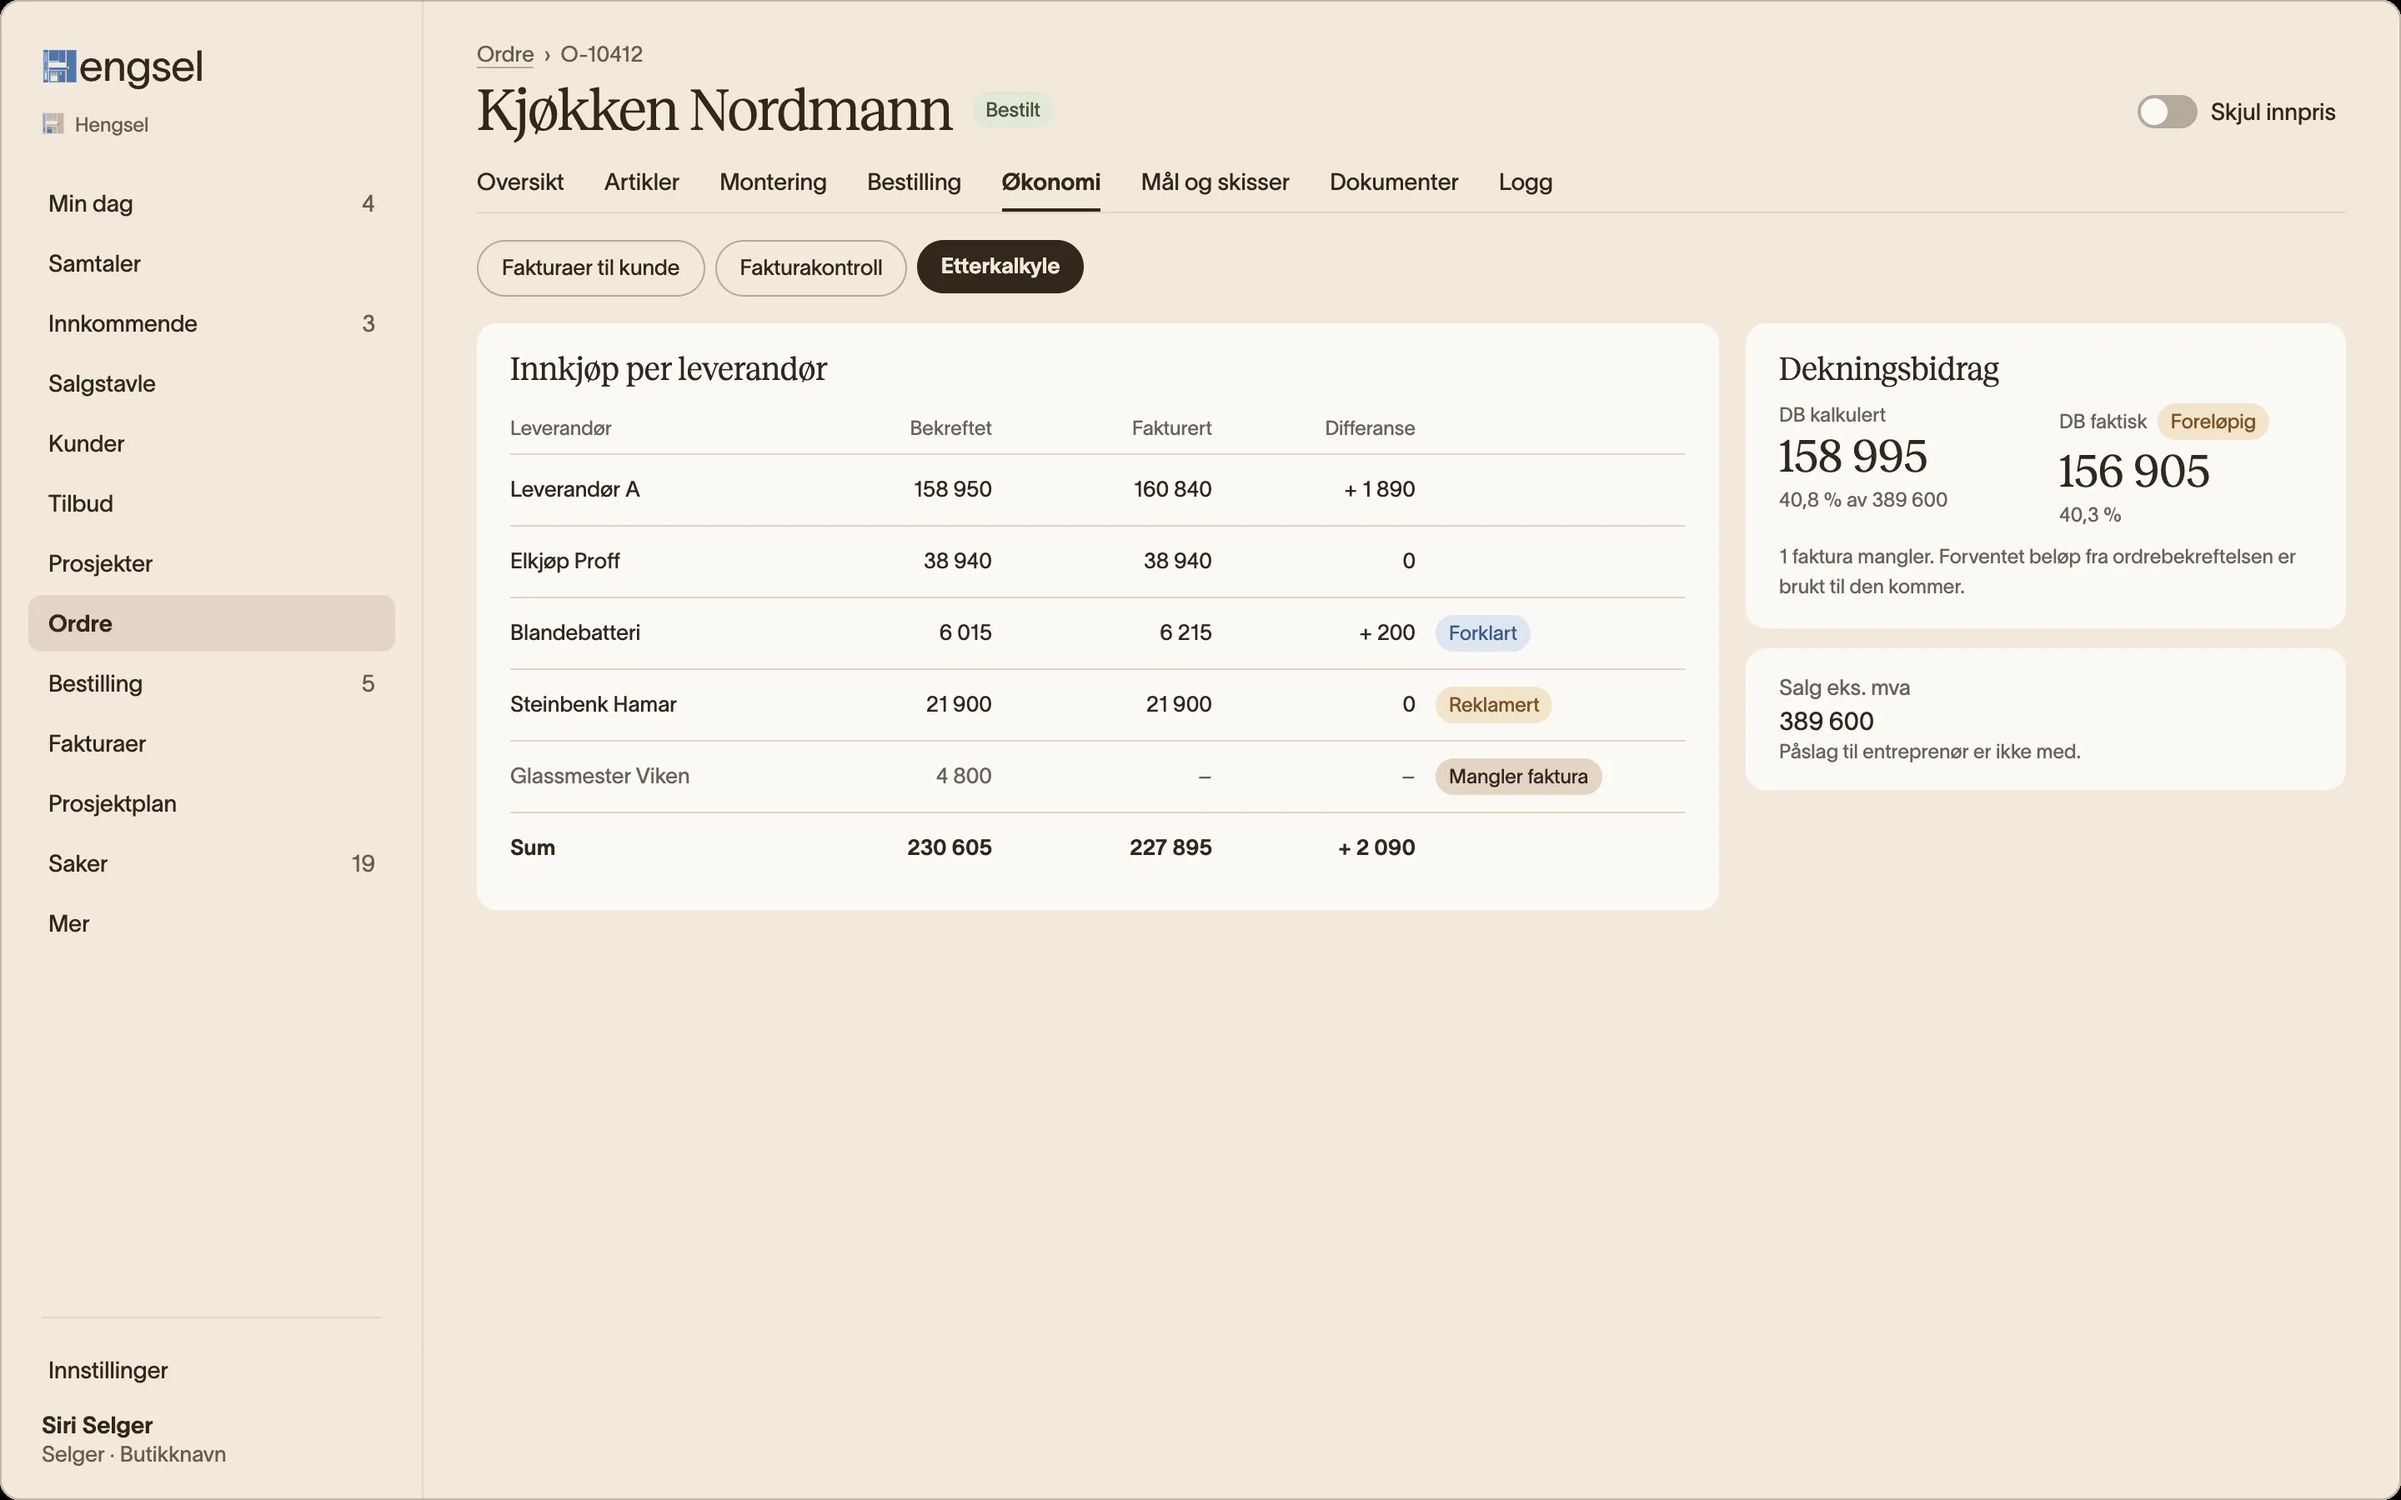
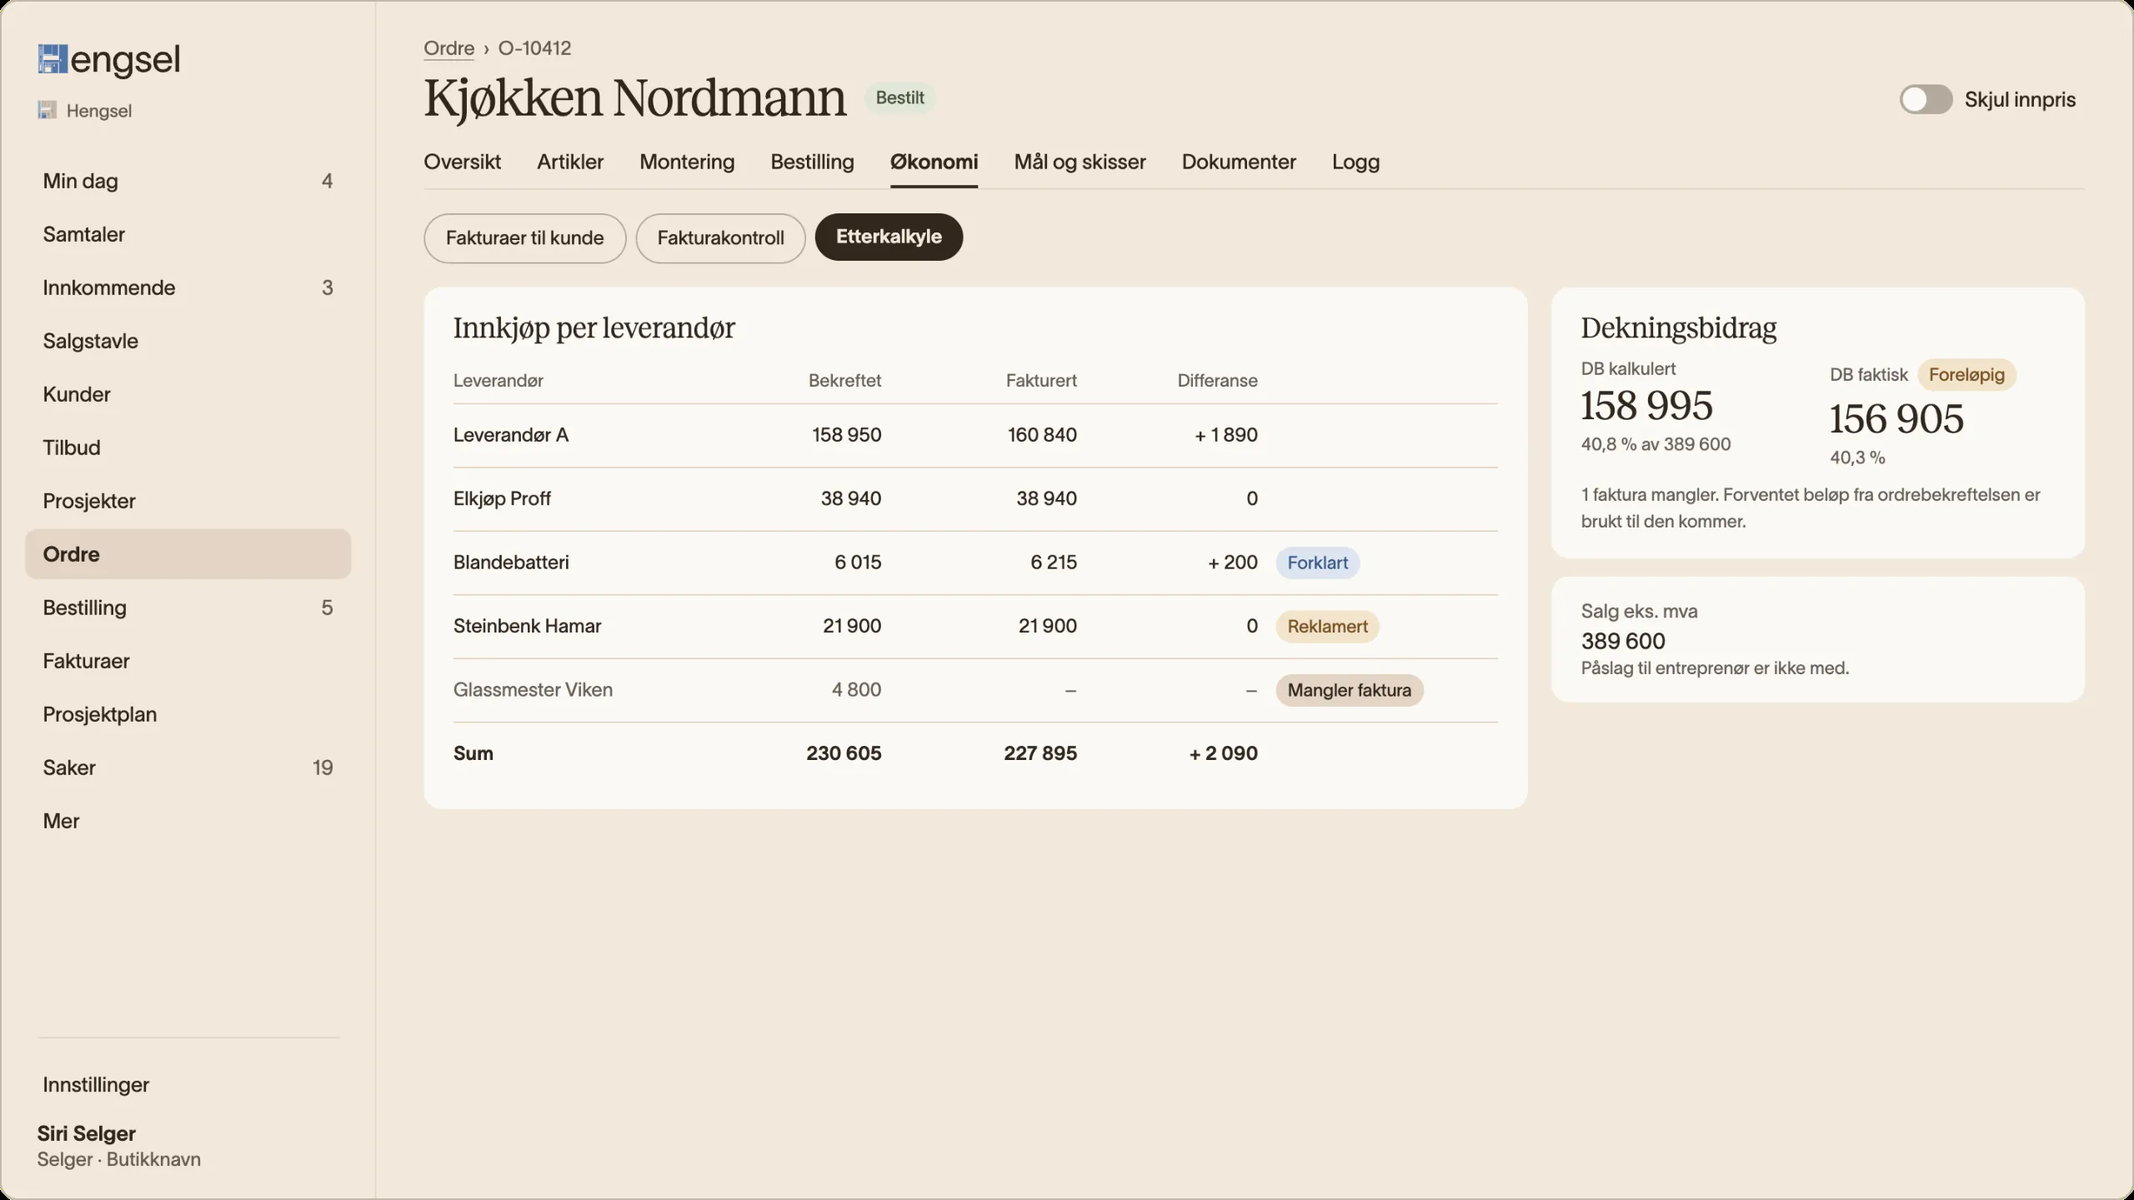
hengsel.no: pakke v6 (Studio Display 16:9, iPad 13", ingen tilpasning av bilder)
- Studio Display-bildene (crm-tilbud, crm-bestilling, crm-resultater, crm-montasje, crm-etterkalkyle) er byttet til v6 display/ (2560 x 1440, 16:9).
  MacBook beholder pc/ (kundeportal-pc fra v4).
- iPad: ute-ipad-bildeverktoy er byttet til v6 ipad13/ (2732 x 2048).
- Enhet.astro: fit-egenskapen og contain-stilen er fjernet. Bildet fyller alltid skjermhullet (cover fra toppen).
  Merk: ipad13 er 4:3, hullet i ipad-liggende er 1,44:1, så de nederste ca. 7 % klippes (verktøylinja i bildeverktøyet).
- scripts/skjermbilder.mjs: helsidebildene laster alle bilder (eager, synkron dekoding, venter på decode) slik at ingen ramme er tom.
- docs/bilder.md oppdatert. Nye helsidebilder av forsiden (1440 og 390, lys og mørk).

Claude-Session: https://claude.ai/code/session_01BRrEhvCqcmW68z484NgJ5s

diff --git a/sites/hengsel/src/scripts/bilder.ts b/sites/hengsel/src/scripts/bilder.ts
@@ -1,14 +1,14 @@
 /**
- * Skjermbildene i public/img: mål i piksler for Enhet.astro (kilde: Apple-pakkene v5, v4 og v3, 11.10.2026, se docs/bilder.md).
+ * Skjermbildene i public/img: mål i piksler for Enhet.astro (kilde: Apple-pakkene v6, v5, v4 og v3, 11.10.2026, se docs/bilder.md).
  * Rammene (ramme-*.webp) er Apples Product Bezels med gjennomsiktig skjermhull; skjermbildene ligger under dem.
  */
 /** Bredde og høyde i piksler, så nettleseren kan sette av plass før bildet er lastet */
 export const MAAL: Record<string, [number, number]> = {
-  "crm-bestilling": [2880, 1800],
-  "crm-etterkalkyle": [2880, 1800],
-  "crm-montasje": [2880, 1800],
-  "crm-resultater": [2880, 1800],
-  "crm-tilbud": [2880, 1800],
+  "crm-bestilling": [2560, 1440],
+  "crm-etterkalkyle": [2560, 1440],
+  "crm-montasje": [2560, 1440],
+  "crm-resultater": [2560, 1440],
+  "crm-tilbud": [2560, 1440],
   "kundeportal-pc": [2880, 1800],
   "portal-fdv": [1206, 2622],
   "portal-levering": [1206, 2622],
@@ -17,7 +17,7 @@ export const MAAL: Record<string, [number, number]> = {
   "ute-avvik": [1206, 2622],
   "ute-ferdig": [1206, 2622],
   "ute-i-dag": [1206, 2622],
-  "ute-ipad-bildeverktoy": [2360, 1640],
+  "ute-ipad-bildeverktoy": [2732, 2048],
   "ute-jobb-under": [1206, 2622],
   "ute-ks": [1206, 2622],
   "ute-laser": [1206, 2622],

diff --git a/docs/bilder.md b/docs/bilder.md
@@ -1,7 +1,9 @@
 # Skjermbilder og Apple-rammer på hengsel.no
 
-Kilde: pakke v5 (`delt/pakke-v5/` på grenen `pakke-v5`) for `crm-montasje`, `ute-i-dag` og `ute-ks`, pakke v4 (`delt/pakke-v4/`, grenen
-`pakke-v4`) for filene den har, og pakke v3 (`delt/pakke-v3/`, grenen `pakke-v3`) for resten. Rammene er Apples Product Bezels med gjennomsiktig skjermhull (`public/img/ramme-*.webp`, uendret fra
+Kilde, i prioritert rekkefølge: pakke v6 (`delt/pakke-v6/`, grenen `pakke-v6`: `display/` til Studio Display og `ipad13/` til iPad),
+pakke v5 (`ute-i-dag`, `ute-ks`), pakke v4 (`crm-tilbud` m.fl., grenen `pakke-v4`) og pakke v3 (`pakke-v3`) for resten. Hver ramme har sitt
+eget bildeformat: Studio Display 16:9 (`display/`, 2560 × 1440), MacBook 16:10 (`pc/`, 2880 × 1800), iPad 13″ 4:3 (`ipad13/`,
+2732 × 2048) og iPhone 18 (`ios/`, 1206 × 2622). Rammene er Apples Product Bezels med gjennomsiktig skjermhull (`public/img/ramme-*.webp`, uendret fra
 v3 til v4); skjermbildet ligger under rammen og klippes til hullet med hjørneradius, `object-fit: cover`, `object-position: top`
 (`src/components/Enhet.astro`). Rammen er ikke beskåret, vippet eller speilvendt, og har ingen skygge. Skjermbildene er WebP
 (kvalitet 80–82) laget av PNG-ene i pakkene, uten endring i oppløsning. Skjermhull (andel av rammen): tabellen i INSTRUKS.md; verdiene
@@ -11,13 +13,13 @@ står i `Enhet.astro`.
 
 | Sted | Ramme | Bilde (pakke) |
 |---|---|---|
-| Hero | Studio Display + iPhone 18 | `crm-tilbud` (v4) + `ute-i-dag` (v5) |
+| Hero | Studio Display + iPhone 18 | `crm-tilbud` (v6) + `ute-i-dag` (v5) |
 | Sju steg 1 Befaring / 5 Montering / 6 Punkter og saker / 7 Ferdig og faktura | iPhone 18 | `ute-laser` (v3) / `ute-ks` (v5) / `ute-punkter` (v3) / `ute-ferdig` (v3) |
-| Sju steg 2 Tilbud / 3 Ordre og bestilling | Studio Display | `crm-tilbud` (v4) / `crm-bestilling` (v3) |
+| Sju steg 2 Tilbud / 3 Ordre og bestilling | Studio Display | `crm-tilbud` / `crm-bestilling` (v6) |
 | Sju steg 4 Levering | iPhone 18 | `portal-levering` (v4, kundeportalen) |
 | Hengsel Ute, åtte grep | iPhone 18 | `ute-i-dag` (v5), `ute-laser`, `ute-jobb-under`, `ute-ks` (v5), `ute-typeskilt`, `ute-avvik`, `ute-punkter` + `ute-punktkort`, `ute-ferdig` (v3) |
-| Merking på iPad | iPad liggende | `ute-ipad-bildeverktoy` (v4, 2360 × 1640) |
-| For kontoret (fire faner) | Studio Display | `crm-resultater` (v3, Ledertavle), `crm-montasje` (v5, Montasjeplan), `crm-bestilling` (v3), `crm-etterkalkyle` (v3) |
+| Merking på iPad | iPad liggende (13″) | `ute-ipad-bildeverktoy` (v6, `ipad13/`) |
+| For kontoret (fire faner) | Studio Display | `crm-resultater` (Ledertavle), `crm-montasje` (Montasjeplan), `crm-bestilling`, `crm-etterkalkyle` (alle v6) |
 | Kundeportalen | MacBook | `kundeportal-pc` (v4) |
 | Kundeportalen, under PC-skjermen | iPhone 18 ×4 | `portal-tilbud`, `portal-levering`, `portal-montering`, `portal-fdv` (v4) |
 | /apptest | iPhone 18 ×3 | `ute-i-dag`, `ute-ks` (v5), `ute-laser` (v3) |
@@ -35,14 +37,17 @@ står i `Enhet.astro`.
 - Steg 4 (Levering) viser `portal-levering` («Bekreft leveringsdag») i stedet for et CRM-bilde; stegets undertekst heter «Kundeportalen».
 - De fire portalbildene under MacBook-skjermen følger lista over kundeportalen (tilbud, leveringsdag og montering, FDV). Ny rad i
   `index.astro` (`.portal-telefoner`): fire telefoner på bred skjerm, to og to på smal. Ikke i fil 60 (som ikke ligger i repoet).
-- `crm-tilbud-kunde` (v4, tilbudet slik kunden ser det på PC) er ikke brukt.
 - Hero: telefonen står foran skjermens nedre høyre hjørne i 18 % av skjermens bredde (22 % under 700 px), omtrent 1,6 ganger så stor
   som i virkeligheten, så Ute-skjermen kan leses. Endres i `.hero-telefon` i `src/pages/index.astro`.
-- PC-bildene er 16:10 (2880 × 1800), Studio Display-hullet er 16:9. Bildet fyller hullet og de nederste 10 % klippes (tomt bakgrunnsfelt,
-  og varselet nederst i `crm-bestilling`). Navnene i v3 stemmer ikke alltid med innholdet: `crm-resultater` er Leder › Oversikt.
-  Alt-tekstene i `src/content/forside.ts` beskriver det bildene faktisk viser.
+- **Studio Display (v6):** `display/`-bildene er 16:9 og passer hullet (94,81 % × 69,23 % av rammen) uten beskjæring. Navnene i pakken stemmer
+  ikke alltid med innholdet: `crm-resultater` er Leder › Oversikt. Alt-tekstene i `src/content/forside.ts` beskriver det bildene faktisk viser.
+- **iPad (v6):** `ipad13/` er 4:3 (2732 × 2048), men hullet i `ipad-liggende` er 1,44:1 (90 % × 2400 mot 86,32 % × 1740). Bildet fyller hullet
+  (`cover`, fra toppen), så de nederste ca. 7 % klippes. I `ute-ipad-bildeverktoy` betyr det at verktøylinja under bildet (Punkt, Mål, Pil,
+  Ring, Frihånd, Tekst og målingene) ikke vises; infolinja «Bosch tilkoblet» står nederst. Det finnes ingen tilpasning (`fit`, `contain`) lenger.
+  For å vise hele skjermen trengs enten et bilde i 1,44:1 til 13″-rammen eller en 13″-ramme med 4:3-hull.
+- MacBook (`pc/`, 16:10): bare `kundeportal-pc` (v4) bruker den. `display/kundeportal-pc` (16:9) er ikke brukt.
 - `ute-typeskilt` (v3) er 1170 × 2532 (ikke 1206 × 2622 som INSTRUKS sier); formatet avviker 0,5 %, så det fyller hullet likevel.
-- Ikke i bruk: `crm-saker`, `crm-salgstavla`, `crm-ipad-*`, `kundeportal-k03/k04/k06/k08` (v3), Duo-rammen `iphone-aapen` (INSTRUKS: ikke i bruk).
+- Ikke i bruk: `crm-saker`, `crm-salgstavla`, `crm-min-dag`, `crm-tilbud-kunde` og `ipad13/crm-ipad-*` (v6), `crm-ipad-*` (v3), `kundeportal-k03/k04/k06/k08` (v3), Duo-rammen `iphone-aapen` (INSTRUKS: ikke i bruk).
 
 ## Sjekk
 
